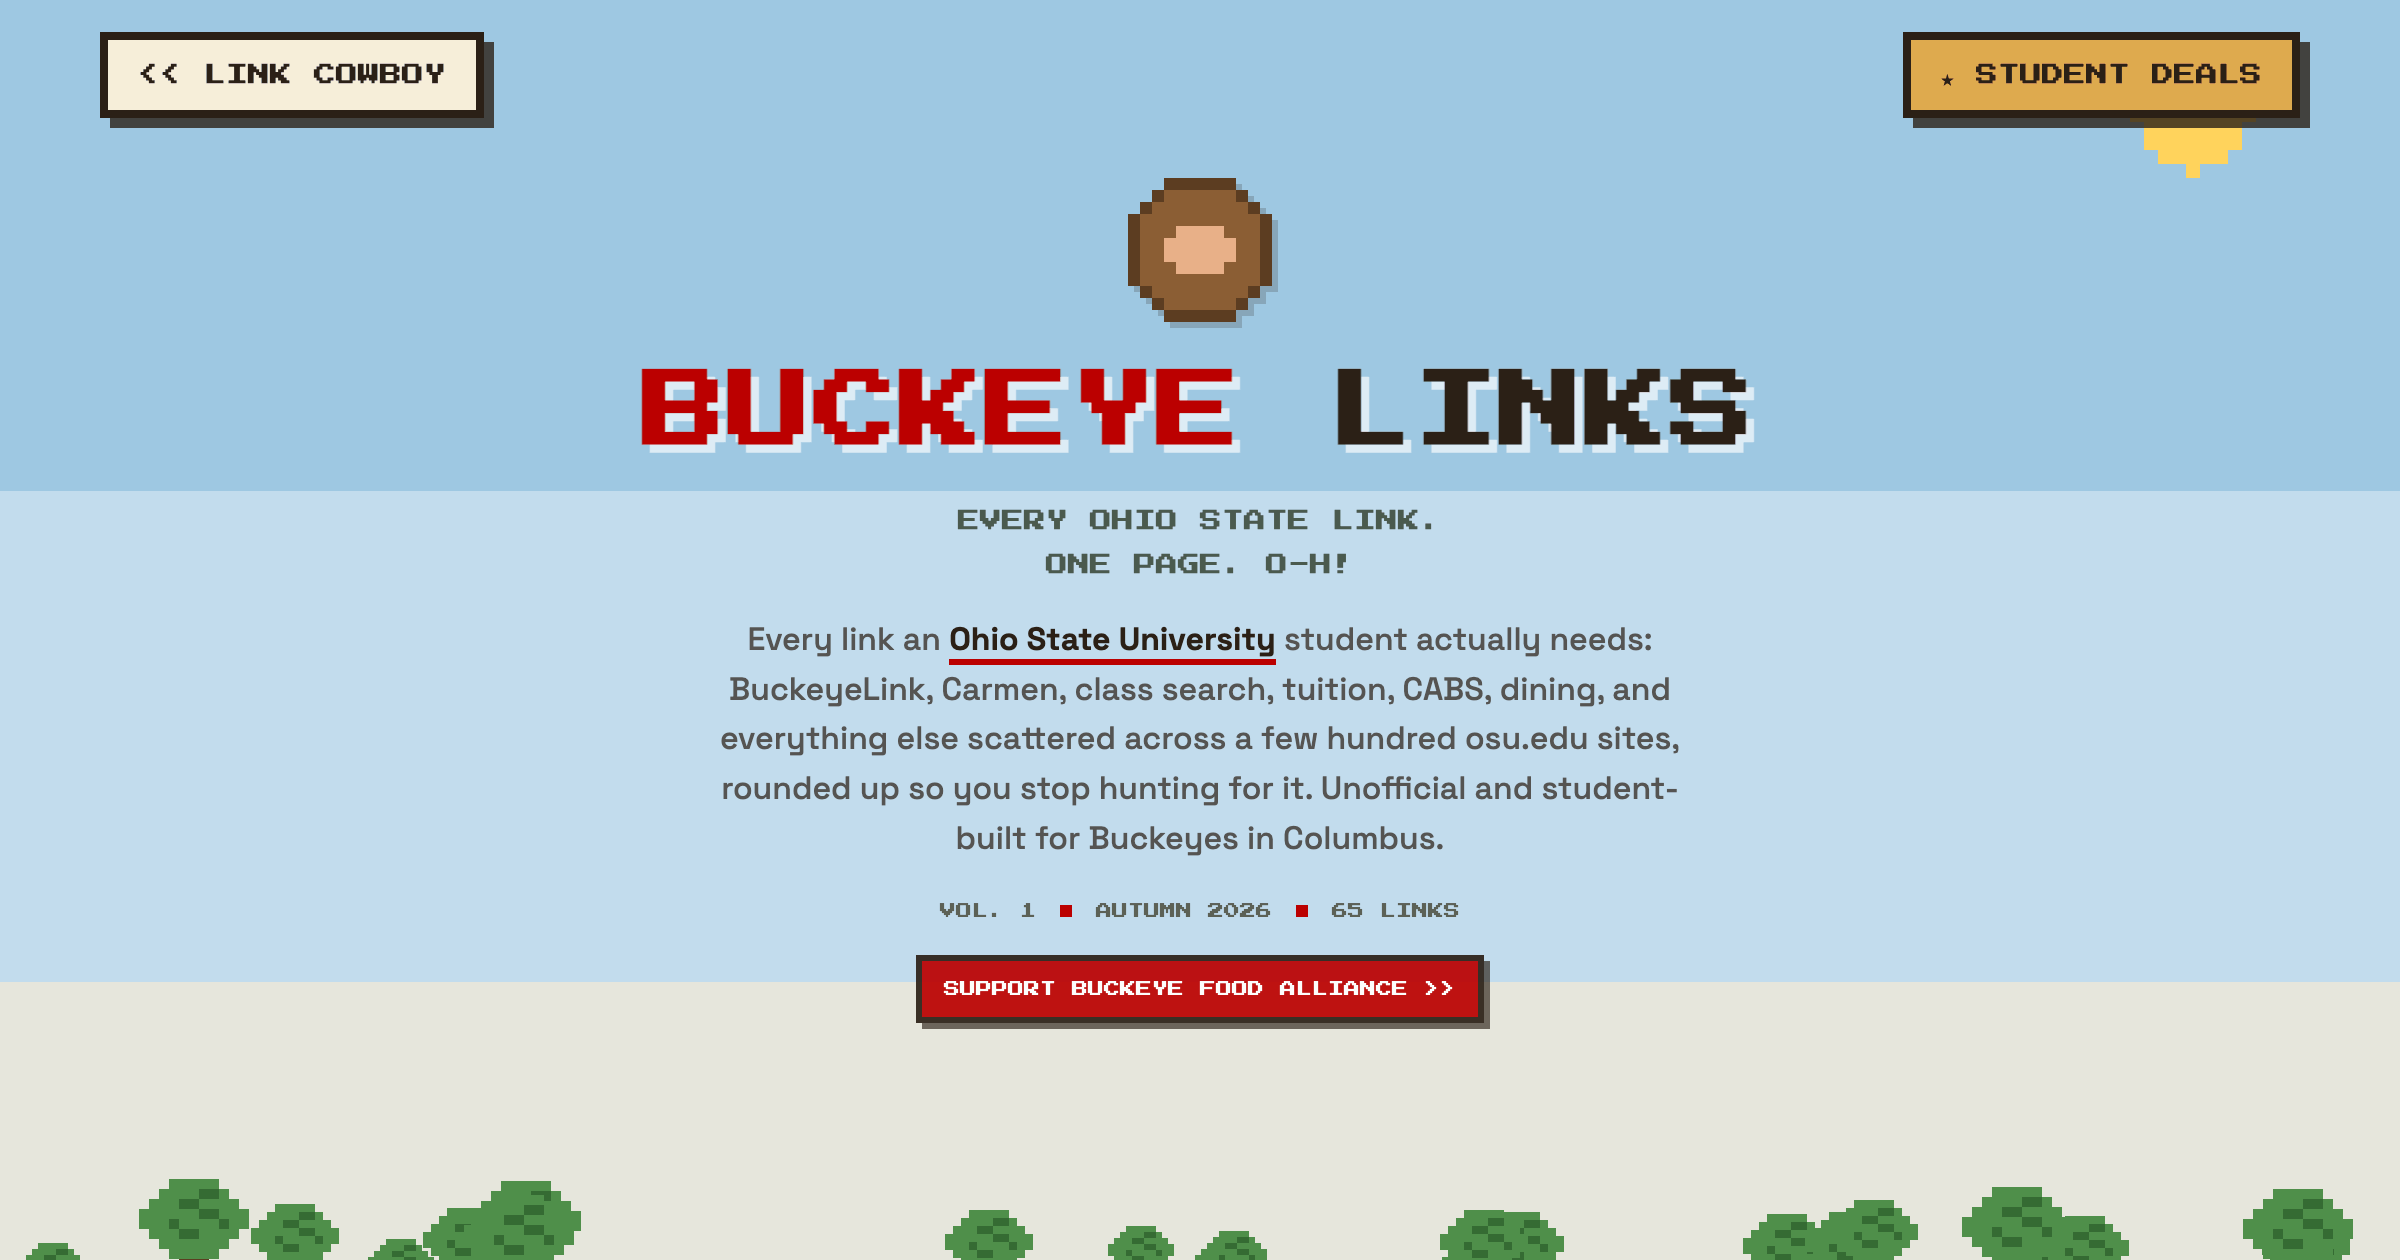
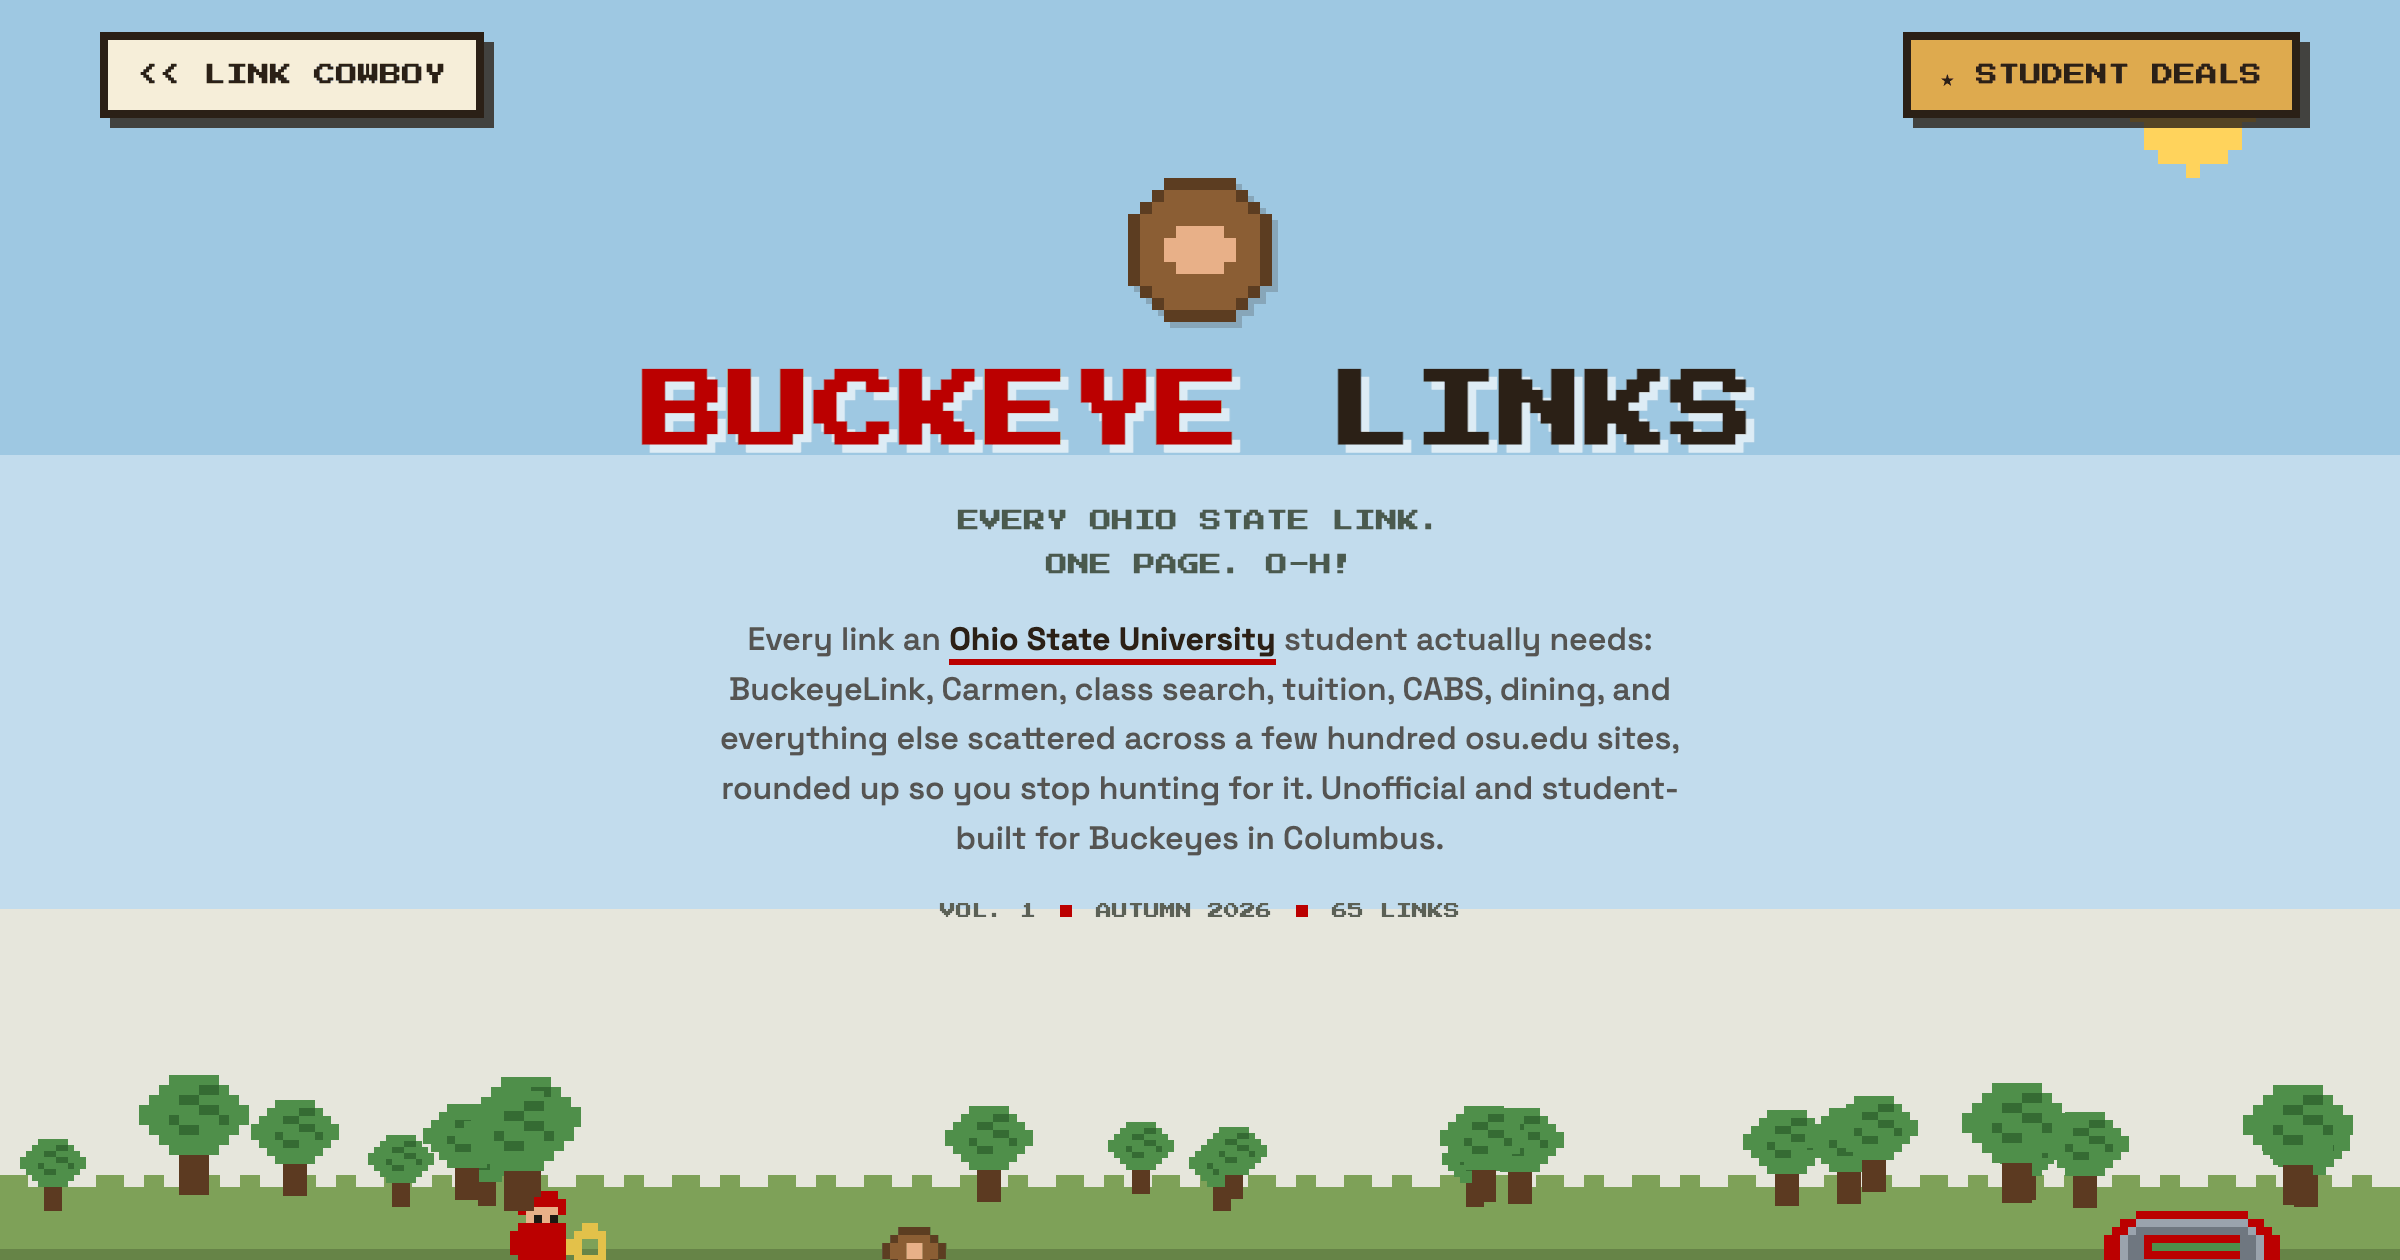
Tighten mobile layout and drop the give-back chips
Removes the "give back" chip from all three new pages. Beaver Links keeps
its own, which is untouched.

Mobile fixes, checked at 320 / 390 / 430:

  * The back chip was wrapping onto two lines at 320 and colliding with
    the scene behind it. The two top chips together needed ~324px at the
    existing 8px size, which is wider than the viewport. Added
    white-space:nowrap plus a 400px breakpoint that drops both chips to
    7px with tighter padding, so they fit with room to spare.
  * That new breakpoint also scales the mascot, headline, tag, blurb and
    edition line down, and shrinks the sun, so the hero stops crowding
    the scene on small phones.
  * Michigan: Burton Tower was punching up through the blurb, since the
    masthead is much shorter on a phone than on desktop. Scaled it to 4x
    at 640 and 3x at 400.
  * Michigan: the falling leaves crossed the headline. They're now
    confined to the outer columns, and hidden entirely below 640 -- on a
    phone the blurb spans nearly the full width, so there is no clear
    column for a leaf to fall through. Desktop keeps the effect.

Verified in real narrow viewports via iframes; headless Chrome clamps
its own window to 500px minimum, so resizing it does not actually
exercise these breakpoints.

OG images regenerated, since they were captured from a masthead that
still had the chip in it.

Changed region(s): [[0.0, 0.8357, 1.0, 1.0], [0.0, 0.7119, 1.0, 0.8357], [0.0, 0.3405, 1.0, 0.4024]]

diff --git a/sites/linkcowboy/wolverines/index.html b/sites/linkcowboy/wolverines/index.html
@@ -119,7 +119,7 @@ canvas{image-rendering:pixelated;display:block}
 .dealschip:active{transform:translate(2px,2px);box-shadow:2px 2px 0 rgba(43,32,22,.8)}
 .backlink{
   display:inline-block;
-  font-family:var(--px);font-size:11px;line-height:1;
+  font-family:var(--px);font-size:11px;line-height:1;white-space:nowrap;
   color:var(--ink);text-decoration:none;
   background:var(--cream);
   border:4px solid var(--ink);
@@ -129,9 +129,6 @@ canvas{image-rendering:pixelated;display:block}
 }
 .backlink:hover,.backlink:focus-visible{transform:translate(-2px,-2px);box-shadow:6px 6px 0 rgba(43,32,22,.8);outline:none}
 .backlink:active{transform:translate(2px,2px);box-shadow:2px 2px 0 rgba(43,32,22,.8)}
-.giveback{display:inline-block;margin-top:18px;font-family:var(--px);font-size:8px;line-height:1.5;color:var(--maize);text-decoration:none;background:var(--brand);border:3px solid var(--ink);box-shadow:3px 3px 0 rgba(43,32,22,.7);padding:8px 11px;opacity:.92;transition:transform .12s steps(2),box-shadow .12s steps(2),opacity .12s}
-.giveback:hover,.giveback:focus-visible{transform:translate(-2px,-2px);box-shadow:5px 5px 0 rgba(43,32,22,.8);opacity:1;outline:none}
-.giveback:active{transform:translate(2px,2px);box-shadow:2px 2px 0 rgba(43,32,22,.8)}
 
 .hero{position:relative;z-index:2;text-align:center;padding:30px 20px 190px}
 .mascot{width:calc(16px * 5);margin:0 auto 18px;filter:drop-shadow(3px 3px 0 rgba(43,32,22,.2))}
@@ -372,12 +369,30 @@ footer::before{ /* pixel notches on the footer edge */
   .hero{padding:22px 16px 160px}
   .card{min-height:0}
   .walker canvas{width:calc(27px * 3)}
-  .tower canvas{width:calc(12px * 5)}
+  .tower canvas{width:calc(12px * 4)}
   .diagm canvas{width:calc(14px * 3)}
+  .leaves{display:none}
   .cloud.c3{display:none}
   .topbar{padding:14px 14px 0}
   .backlink,.dealschip{font-size:8px;padding:9px 10px;border-width:3px;box-shadow:3px 3px 0 rgba(43,32,22,.8)}
   .sun{top:84px;right:5vw;width:calc(9px * 5)}
+}
+@media (max-width:400px){
+  .topbar{padding:12px 10px 0;gap:8px}
+  .backlink,.dealschip{font-size:7px;padding:8px 8px;border-width:3px;box-shadow:2px 2px 0 rgba(43,32,22,.8)}
+  .hero{padding:16px 12px 140px}
+  .mascot{width:calc(16px * 4);margin-bottom:12px}
+  h1{font-size:clamp(16px,7.2vw,26px)}
+  .tag{font-size:8px;margin-top:12px;line-height:1.9}
+  .blurb{font-size:13.5px;margin-top:12px}
+  .edition{font-size:7px;gap:8px;margin-top:14px}
+  .sun{top:70px;right:3vw;width:calc(9px * 4)}
+  .cloud.c2{display:none}
+  .tower canvas{width:calc(12px * 3)}
+  .diagm canvas{width:calc(14px * 2)}
+  .walker canvas{width:calc(27px * 3)}
+  .sechead h2{font-size:12px}
+  .card h3{font-size:9px}
 }
 @media (prefers-reduced-motion:reduce){
   *{scroll-behavior:auto}
@@ -417,7 +432,6 @@ footer::before{ /* pixel notches on the footer edge */
     <div class="edition">
       <span>VOL. 1</span><i class="dot"></i><span>FALL 2026</span><i class="dot"></i><span id="linkcount">LINKS</span>
     </div>
-    <a class="giveback" href="https://mbc.studentlife.umich.edu/" target="_blank" rel="noopener">SUPPORT THE MAIZE &amp; BLUE CUPBOARD &gt;&gt;</a>
   </div>
 </header>
 
@@ -679,7 +693,9 @@ if(!reduced){
   for(let i=0; i<9; i++){
     const holder = document.createElement("div");
     holder.className = "leaf";
-    holder.style.left = (rand()*96 + 2) + "vw";
+    /* keep leaves in the outer columns so they never fall across the
+       centred headline, which is where they collided on narrow screens */
+    holder.style.left = (rand() < 0.5 ? 2 + rand()*19 : 79 + rand()*19) + "vw";
     holder.style.animationDuration = (9 + rand()*9).toFixed(1) + "s";
     holder.style.animationDelay = "-" + (rand()*14).toFixed(1) + "s";
     const cv = document.createElement("canvas");

diff --git a/sites/linkcowboy/sundevils/index.html b/sites/linkcowboy/sundevils/index.html
@@ -110,7 +110,7 @@ canvas{image-rendering:pixelated;display:block}
 .dealschip:active{transform:translate(2px,2px);box-shadow:2px 2px 0 rgba(43,32,22,.8)}
 .backlink{
   display:inline-block;
-  font-family:var(--px);font-size:11px;line-height:1;
+  font-family:var(--px);font-size:11px;line-height:1;white-space:nowrap;
   color:var(--ink);text-decoration:none;
   background:var(--cream);
   border:4px solid var(--ink);
@@ -120,9 +120,6 @@ canvas{image-rendering:pixelated;display:block}
 }
 .backlink:hover,.backlink:focus-visible{transform:translate(-2px,-2px);box-shadow:6px 6px 0 rgba(43,32,22,.8);outline:none}
 .backlink:active{transform:translate(2px,2px);box-shadow:2px 2px 0 rgba(43,32,22,.8)}
-.giveback{display:inline-block;margin-top:18px;font-family:var(--px);font-size:8px;line-height:1.5;color:#fff;text-decoration:none;background:var(--brand);border:3px solid var(--ink);box-shadow:3px 3px 0 rgba(43,32,22,.7);padding:8px 11px;opacity:.92;transition:transform .12s steps(2),box-shadow .12s steps(2),opacity .12s}
-.giveback:hover,.giveback:focus-visible{transform:translate(-2px,-2px);box-shadow:5px 5px 0 rgba(43,32,22,.8);opacity:1;outline:none}
-.giveback:active{transform:translate(2px,2px);box-shadow:2px 2px 0 rgba(43,32,22,.8)}
 
 .hero{position:relative;z-index:2;text-align:center;padding:30px 20px 190px}
 .mascot{width:calc(11px * 6);margin:0 auto 18px;filter:drop-shadow(3px 3px 0 rgba(43,32,22,.2))}
@@ -369,6 +366,20 @@ footer::before{ /* pixel notches on the footer edge */
   .backlink,.dealschip{font-size:8px;padding:9px 10px;border-width:3px;box-shadow:3px 3px 0 rgba(43,32,22,.8)}
   .sun{top:84px;right:5vw;width:calc(9px * 5)}
 }
+@media (max-width:400px){
+  .topbar{padding:12px 10px 0;gap:8px}
+  .backlink,.dealschip{font-size:7px;padding:8px 8px;border-width:3px;box-shadow:2px 2px 0 rgba(43,32,22,.8)}
+  .hero{padding:16px 12px 140px}
+  .mascot{width:calc(11px * 4);margin-bottom:12px}
+  h1{font-size:clamp(16px,7.2vw,26px)}
+  .tag{font-size:8px;margin-top:12px;line-height:1.9}
+  .blurb{font-size:13.5px;margin-top:12px}
+  .edition{font-size:7px;gap:8px;margin-top:14px}
+  .sun{top:70px;right:3vw;width:calc(9px * 4)}
+  .cloud.c2{display:none}
+  .sechead h2{font-size:12px}
+  .card h3{font-size:9px}
+}
 @media (prefers-reduced-motion:reduce){
   *{scroll-behavior:auto}
   .cloud,.swimmer,.swimmer canvas,.floatlog,.floatlog canvas,.card,.backlink,button.send,.card .host .arw{animation:none;transition:none}
@@ -406,7 +417,6 @@ footer::before{ /* pixel notches on the footer edge */
     <div class="edition">
       <span>VOL. 1</span><i class="dot"></i><span>FALL 2026</span><i class="dot"></i><span id="linkcount">LINKS</span>
     </div>
-    <a class="giveback" href="https://www.pitchforkpantry.org/support-us" target="_blank" rel="noopener">FEED A SUN DEVIL, GIVE HERE &gt;&gt;</a>
   </div>
 </header>
 

diff --git a/sites/linkcowboy/buckeyes/index.html b/sites/linkcowboy/buckeyes/index.html
@@ -110,7 +110,7 @@ canvas{image-rendering:pixelated;display:block}
 .dealschip:active{transform:translate(2px,2px);box-shadow:2px 2px 0 rgba(43,32,22,.8)}
 .backlink{
   display:inline-block;
-  font-family:var(--px);font-size:11px;line-height:1;
+  font-family:var(--px);font-size:11px;line-height:1;white-space:nowrap;
   color:var(--ink);text-decoration:none;
   background:var(--cream);
   border:4px solid var(--ink);
@@ -120,9 +120,6 @@ canvas{image-rendering:pixelated;display:block}
 }
 .backlink:hover,.backlink:focus-visible{transform:translate(-2px,-2px);box-shadow:6px 6px 0 rgba(43,32,22,.8);outline:none}
 .backlink:active{transform:translate(2px,2px);box-shadow:2px 2px 0 rgba(43,32,22,.8)}
-.giveback{display:inline-block;margin-top:18px;font-family:var(--px);font-size:8px;line-height:1.5;color:#fff;text-decoration:none;background:var(--brand);border:3px solid var(--ink);box-shadow:3px 3px 0 rgba(43,32,22,.7);padding:8px 11px;opacity:.92;transition:transform .12s steps(2),box-shadow .12s steps(2),opacity .12s}
-.giveback:hover,.giveback:focus-visible{transform:translate(-2px,-2px);box-shadow:5px 5px 0 rgba(43,32,22,.8);opacity:1;outline:none}
-.giveback:active{transform:translate(2px,2px);box-shadow:2px 2px 0 rgba(43,32,22,.8)}
 
 .hero{position:relative;z-index:2;text-align:center;padding:30px 20px 190px}
 .mascot{width:calc(12px * 6);margin:0 auto 18px;filter:drop-shadow(3px 3px 0 rgba(43,32,22,.2))}
@@ -369,6 +366,20 @@ footer::before{ /* pixel notches on the footer edge */
   .backlink,.dealschip{font-size:8px;padding:9px 10px;border-width:3px;box-shadow:3px 3px 0 rgba(43,32,22,.8)}
   .sun{top:84px;right:5vw;width:calc(9px * 5)}
 }
+@media (max-width:400px){
+  .topbar{padding:12px 10px 0;gap:8px}
+  .backlink,.dealschip{font-size:7px;padding:8px 8px;border-width:3px;box-shadow:2px 2px 0 rgba(43,32,22,.8)}
+  .hero{padding:16px 12px 140px}
+  .mascot{width:calc(12px * 4);margin-bottom:12px}
+  h1{font-size:clamp(16px,7.2vw,26px)}
+  .tag{font-size:8px;margin-top:12px;line-height:1.9}
+  .blurb{font-size:13.5px;margin-top:12px}
+  .edition{font-size:7px;gap:8px;margin-top:14px}
+  .sun{top:70px;right:3vw;width:calc(9px * 4)}
+  .cloud.c2{display:none}
+  .sechead h2{font-size:12px}
+  .card h3{font-size:9px}
+}
 @media (prefers-reduced-motion:reduce){
   *{scroll-behavior:auto}
   .cloud,.swimmer,.swimmer canvas,.floatlog,.floatlog canvas,.card,.backlink,button.send,.card .host .arw{animation:none;transition:none}
@@ -406,7 +417,6 @@ footer::before{ /* pixel notches on the footer edge */
     <div class="edition">
       <span>VOL. 1</span><i class="dot"></i><span>AUTUMN 2026</span><i class="dot"></i><span id="linkcount">LINKS</span>
     </div>
-    <a class="giveback" href="https://www.buckeyefoodalliance.org/" target="_blank" rel="noopener">SUPPORT BUCKEYE FOOD ALLIANCE &gt;&gt;</a>
   </div>
 </header>
 
